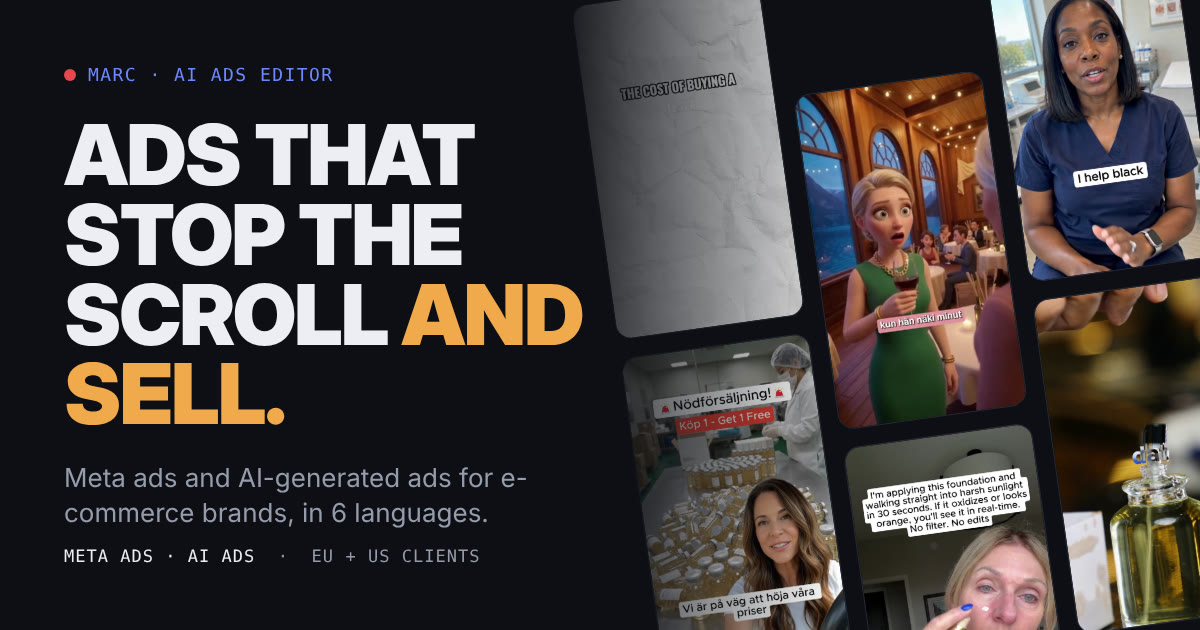
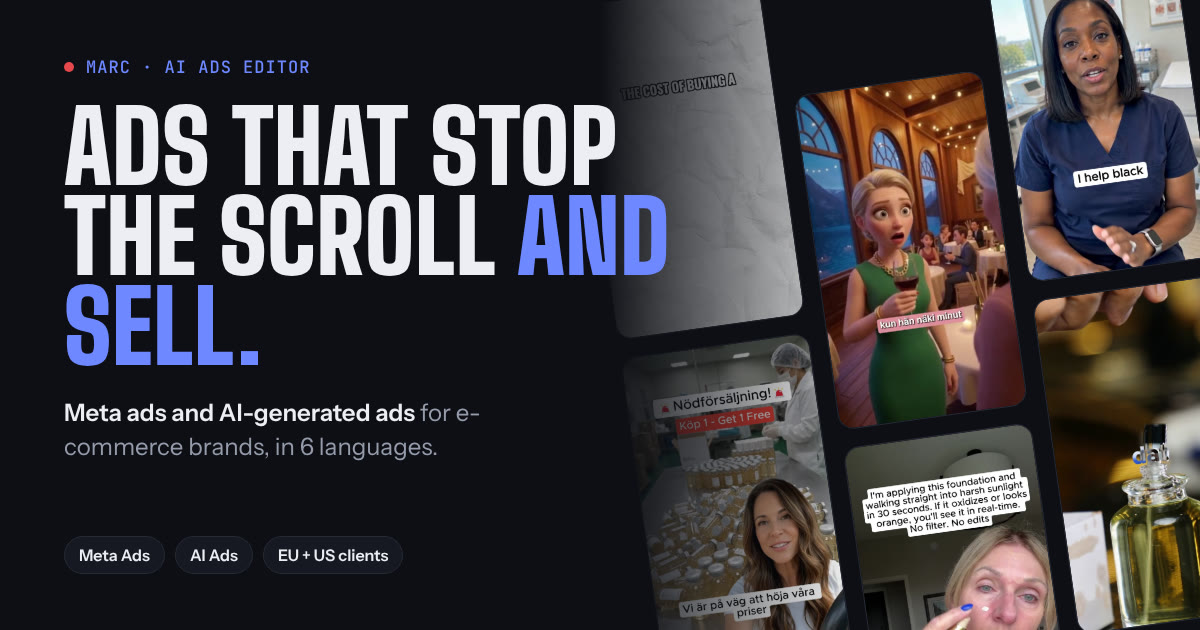
Match link preview image to the site's fonts and colors
Claude-Session: https://claude.ai/code/session_01NKg13oMGa1dwvm3g9gBVTS

diff --git a/index.html b/index.html
@@ -10,12 +10,12 @@
 <meta property="og:type" content="website">
 <meta property="og:url" content="https://boloconmarcbryan-ux.github.io/portfolio/">
 <meta property="og:site_name" content="Marc · AI Ads Editor">
-<meta property="og:image" content="https://boloconmarcbryan-ux.github.io/portfolio/media/og.jpg">
+<meta property="og:image" content="https://boloconmarcbryan-ux.github.io/portfolio/media/og.jpg?v=2">
 <meta property="og:image:width" content="1200">
 <meta property="og:image:height" content="630">
 <meta property="og:image:alt" content="Marc, AI Ads Editor: ads that stop the scroll and sell.">
 <meta name="twitter:card" content="summary_large_image">
-<meta name="twitter:image" content="https://boloconmarcbryan-ux.github.io/portfolio/media/og.jpg">
+<meta name="twitter:image" content="https://boloconmarcbryan-ux.github.io/portfolio/media/og.jpg?v=2">
 <link rel="canonical" href="https://boloconmarcbryan-ux.github.io/portfolio/">
 <script type="application/ld+json">{"@context":"https://schema.org","@type":"Person","name":"Marc","jobTitle":"AI Ads Video Editor","url":"https://boloconmarcbryan-ux.github.io/portfolio/","email":"mailto:jpbry23@gmail.com","address":{"@type":"PostalAddress","addressCountry":"PH"},"sameAs":["https://www.linkedin.com/in/marcbolocon"],"knowsLanguage":["en","da","nl","fi","no","sv"],"knowsAbout":["Meta ads","AI video ads","Video editing","E-commerce advertising"]}</script>
 <meta name="theme-color" content="#0D0F14">
